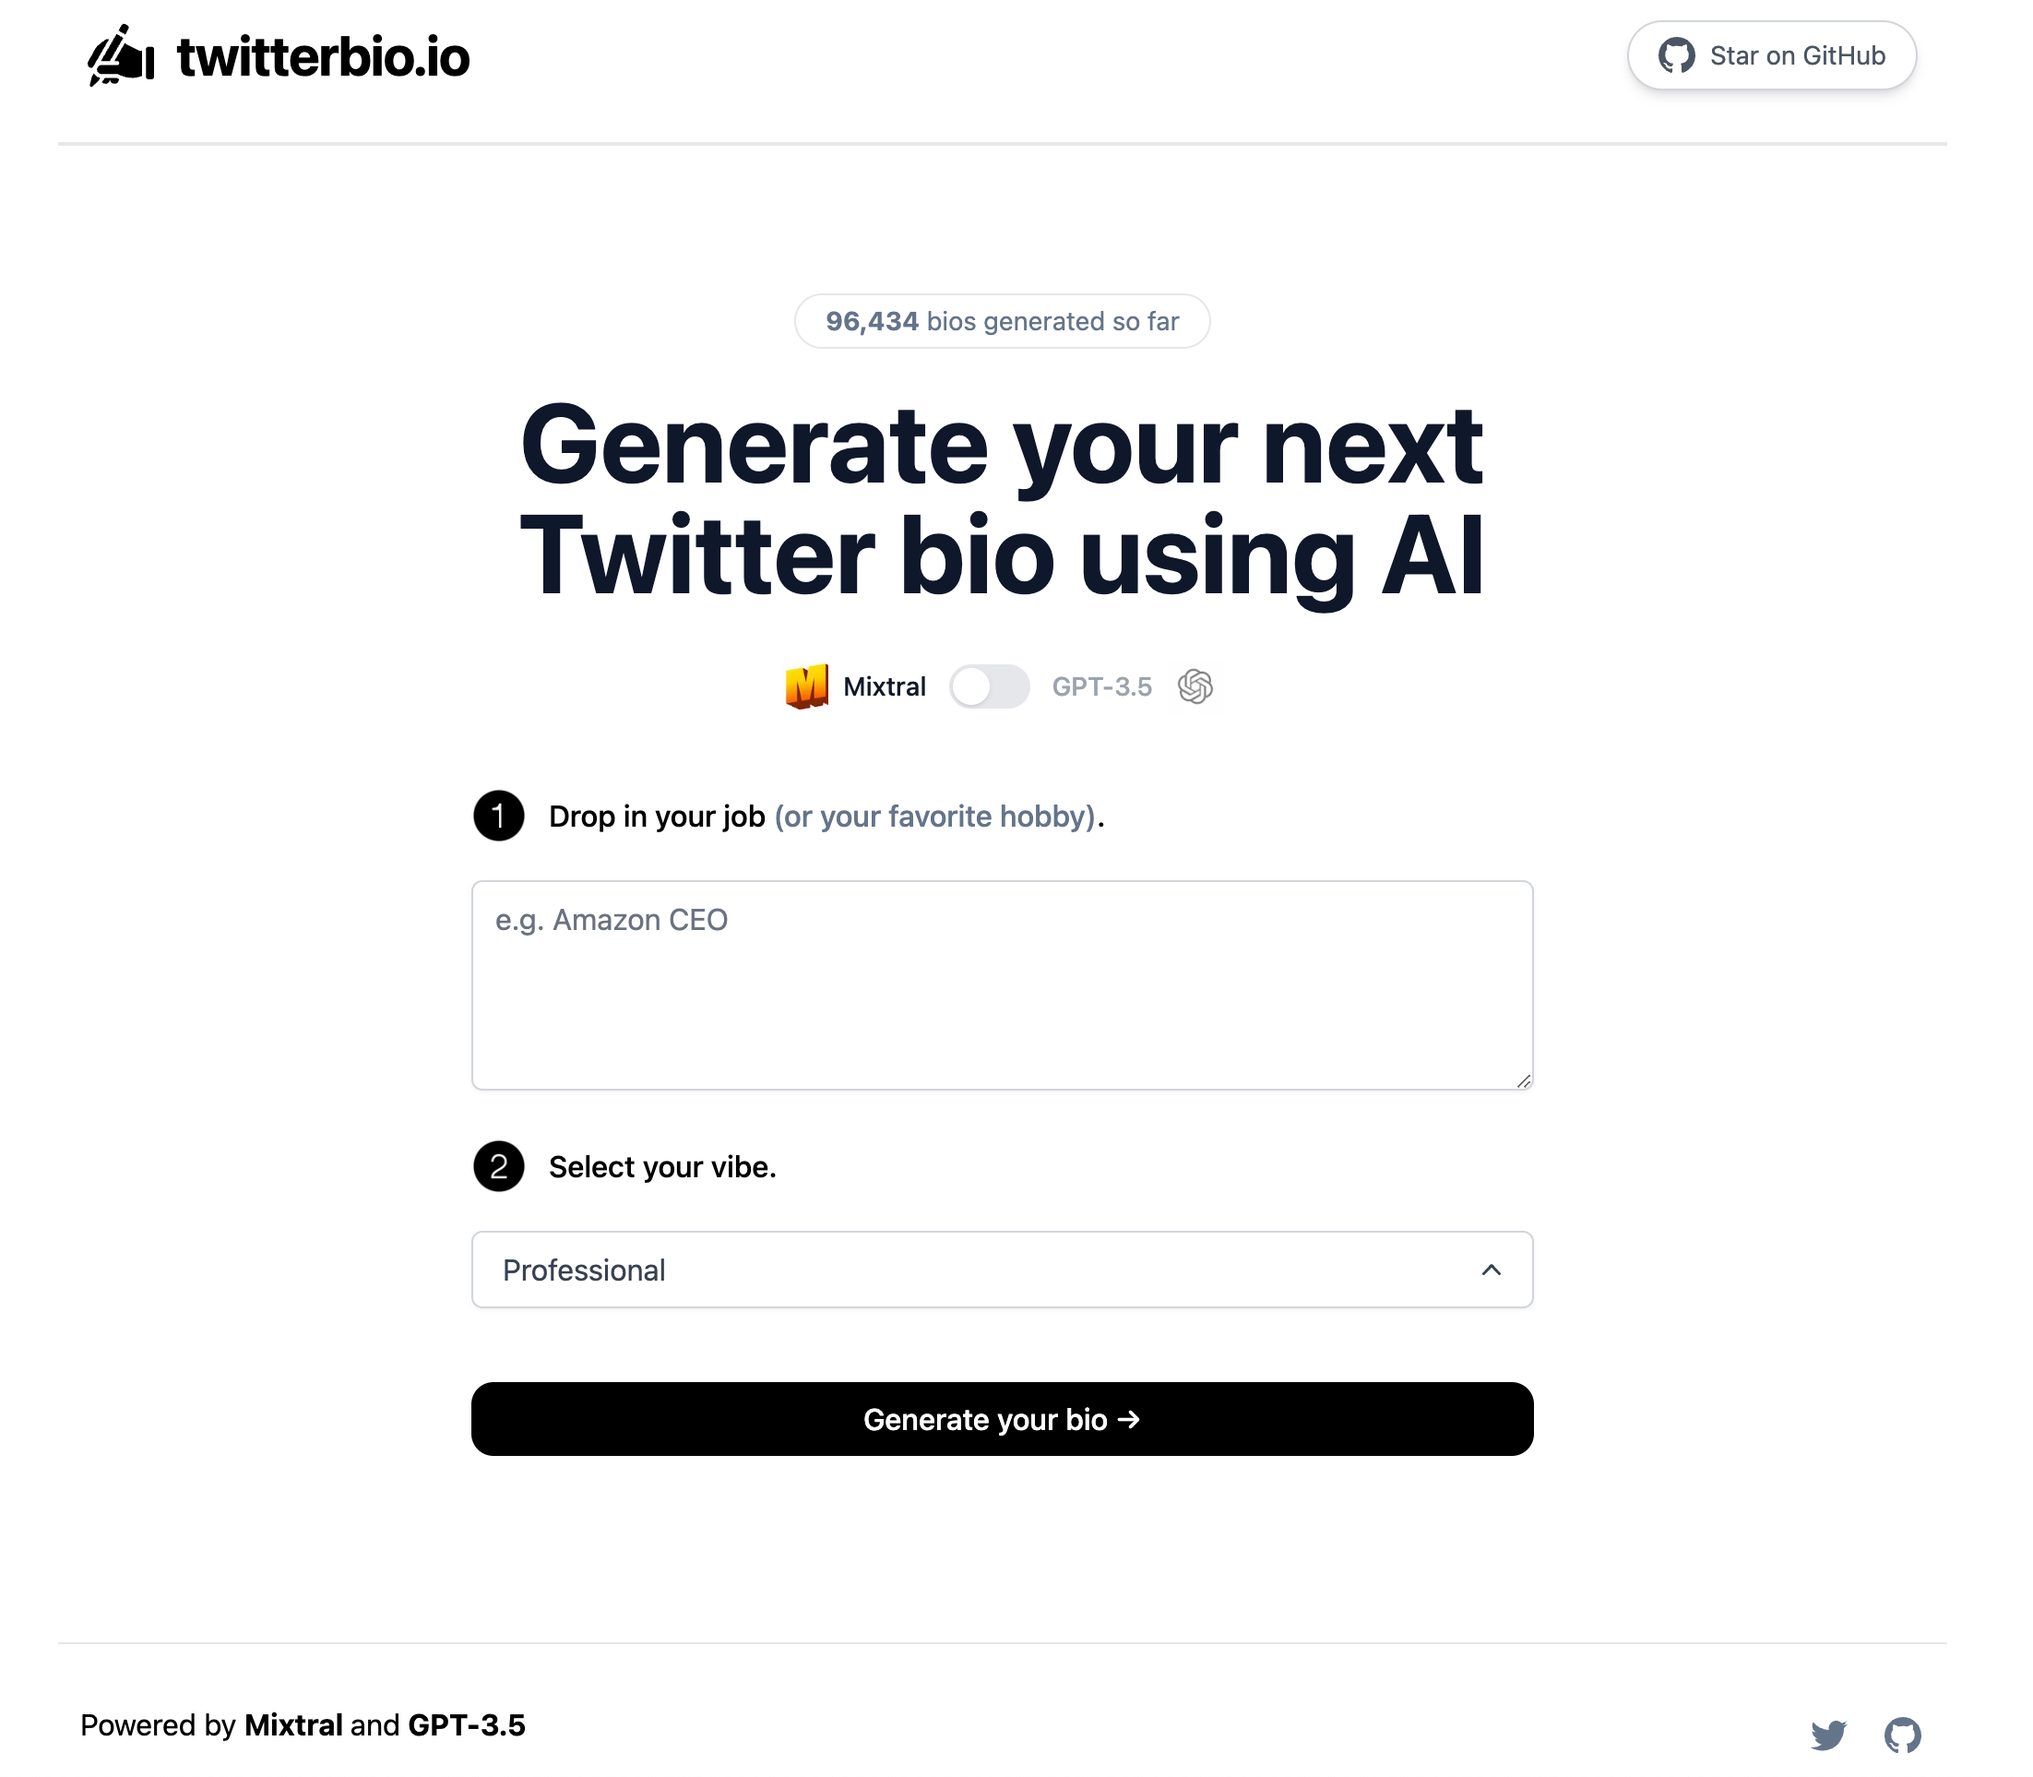
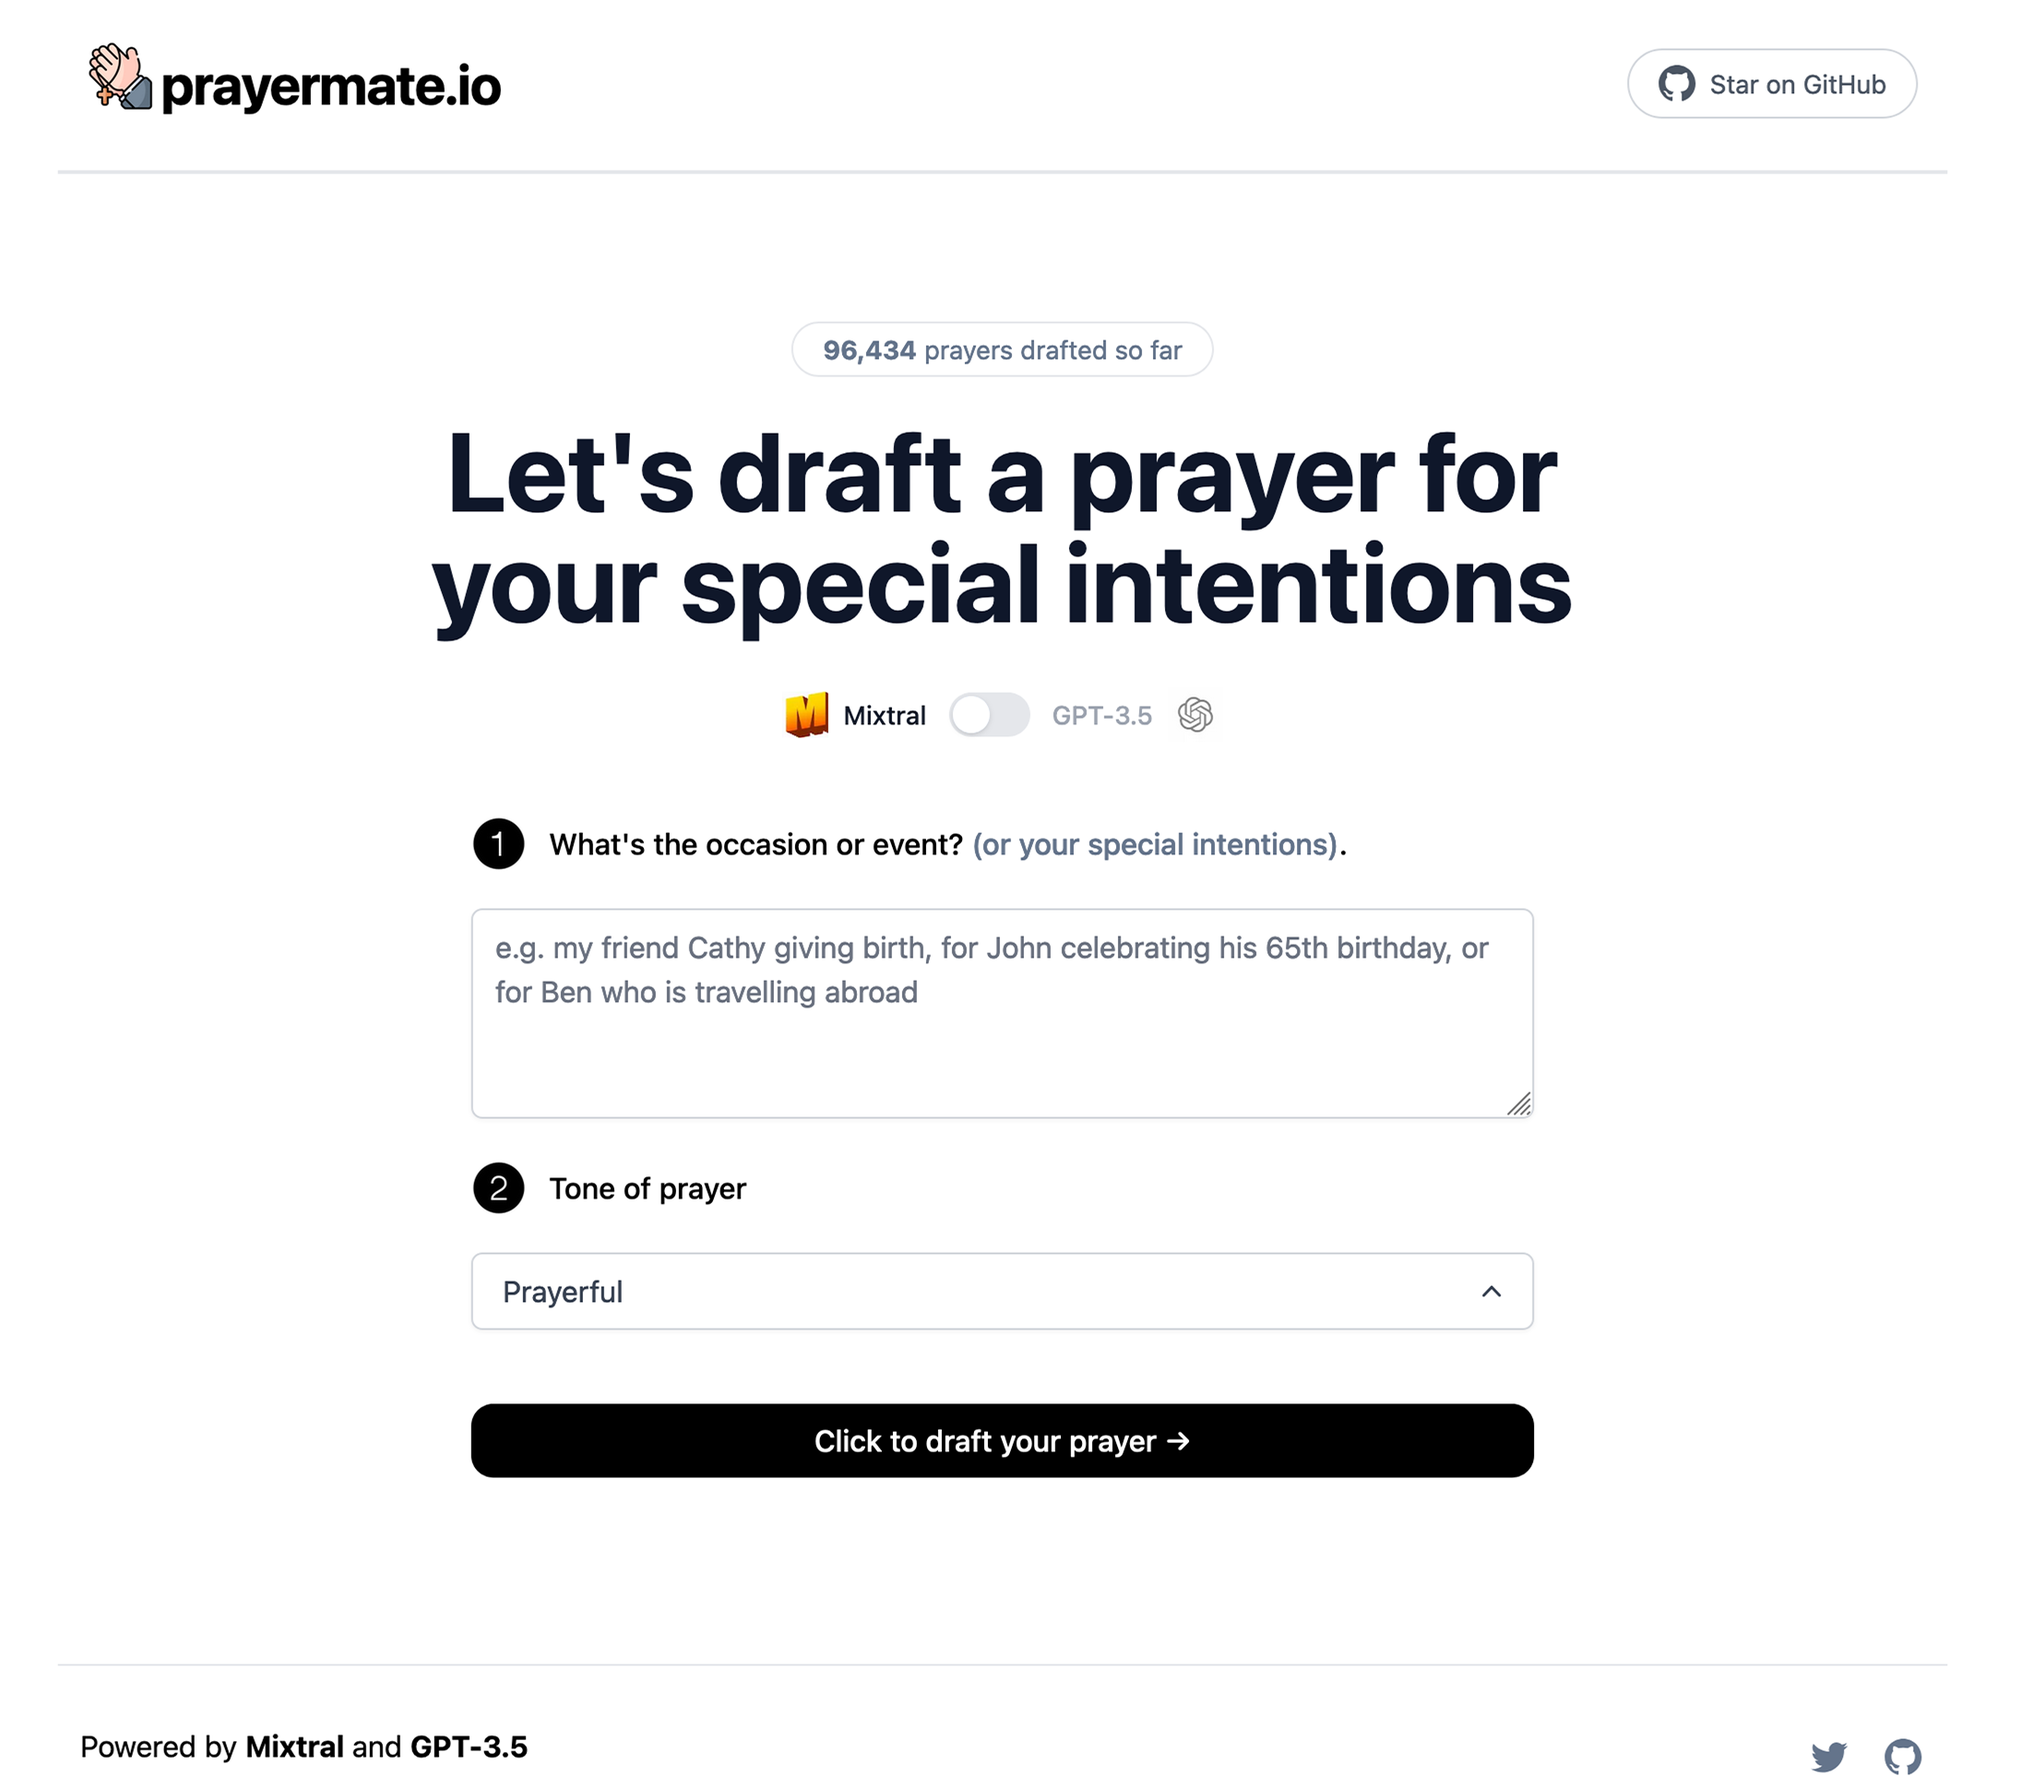
First commit
Changed twitterbio.io to this one

diff --git a/pages/index.tsx b/pages/index.tsx
@@ -17,7 +17,7 @@ import Toggle from '../components/Toggle';
 const Home: NextPage = () => {
   const [loading, setLoading] = useState(false);
   const [bio, setBio] = useState('');
-  const [vibe, setVibe] = useState<VibeType>('Professional');
+  const [vibe, setVibe] = useState<VibeType>('Prayerful');
   const [generatedBios, setGeneratedBios] = useState<String>('');
   const [isGPT, setIsGPT] = useState(false);
 
@@ -29,11 +29,11 @@ const Home: NextPage = () => {
     }
   };
 
-  const prompt = `Generate 3 ${
-    vibe === 'Casual' ? 'relaxed' : vibe === 'Funny' ? 'silly' : 'Professional'
-  } twitter biographies with no hashtags and clearly labeled "1.", "2.", and "3.". Only return these 3 twitter bios, nothing else. ${
-    vibe === 'Funny' ? 'Make the biographies humerous' : ''
-  }Make sure each generated biography is less than 300 characters, has short sentences that are found in Twitter bios, and feel free to use this context as well: ${bio}${
+  const prompt = `Generate a ${
+    vibe === 'Sombre' ? 'sorrowful' : vibe === 'Celebratory' ? 'joyful' : 'Prayerful'
+  } Catholic prayer ${
+    vibe === 'Celebratory' ? 'Make that prayer that is rejoicing in the occasion' : ''
+  }Make sure the generated prayer is less than 1200 characters, , and feel free to use this context as well: ${bio}${
     bio.slice(-1) === '.' ? '' : '.'
   }`;
 
@@ -108,17 +108,17 @@ const Home: NextPage = () => {
   return (
     <div className="flex max-w-5xl mx-auto flex-col items-center justify-center py-2 min-h-screen">
       <Head>
-        <title>Twitter Bio Generator</title>
+        <title>Catholic Prayer AI Assistant</title>
         <link rel="icon" href="/favicon.ico" />
       </Head>
 
       <Header />
       <main className="flex flex-1 w-full flex-col items-center justify-center text-center px-4 mt-12 sm:mt-20">
         <p className="border rounded-2xl py-1 px-4 text-slate-500 text-sm mb-5 hover:scale-105 transition duration-300 ease-in-out">
-          <b>96,434</b> bios generated so far
+          <b>96,434</b> prayers drafted so far
         </p>
         <h1 className="sm:text-6xl text-4xl max-w-[708px] font-bold text-slate-900">
-          Generate your next Twitter bio using AI
+          Let's draft a prayer for your special intentions
         </h1>
         <div className="mt-7">
           <Toggle isGPT={isGPT} setIsGPT={setIsGPT} />
@@ -134,8 +134,8 @@ const Home: NextPage = () => {
               className="mb-5 sm:mb-0"
             />
             <p className="text-left font-medium">
-              Drop in your job{' '}
-              <span className="text-slate-500">(or your favorite hobby)</span>.
+              What's the occasion or event?{' '}
+              <span className="text-slate-500">(or your special intentions)</span>.
             </p>
           </div>
           <textarea
@@ -143,11 +143,11 @@ const Home: NextPage = () => {
             onChange={(e) => setBio(e.target.value)}
             rows={4}
             className="w-full rounded-md border-gray-300 shadow-sm focus:border-black focus:ring-black my-5"
-            placeholder={'e.g. Amazon CEO'}
+            placeholder={'e.g. my friend Cathy giving birth, for John celebrating his 65th birthday, or for Ben who is travelling abroad'}
           />
           <div className="flex mb-5 items-center space-x-3">
             <Image src="/2-black.png" width={30} height={30} alt="1 icon" />
-            <p className="text-left font-medium">Select your vibe.</p>
+            <p className="text-left font-medium">Tone of prayer</p>
           </div>
           <div className="block">
             <DropDown vibe={vibe} setVibe={(newVibe) => setVibe(newVibe)} />
@@ -158,7 +158,7 @@ const Home: NextPage = () => {
               className="bg-black rounded-xl text-white font-medium px-4 py-2 sm:mt-10 mt-8 hover:bg-black/80 w-full"
               onClick={(e) => generateBio(e)}
             >
-              Generate your bio &rarr;
+              Click to draft your prayer &rarr;
             </button>
           )}
           {loading && (
@@ -184,17 +184,18 @@ const Home: NextPage = () => {
                   className="sm:text-4xl text-3xl font-bold text-slate-900 mx-auto"
                   ref={bioRef}
                 >
-                  Your generated bios
+                  Here is your drafted prayer:
                 </h2>
               </div>
               <div className="space-y-8 flex flex-col items-center justify-center max-w-xl mx-auto">
+                
                 {generatedBios
                   .substring(generatedBios.indexOf('1') + 3)
                   .split(/2\.|3\./)
                   .map((generatedBio) => {
                     return (
                       <div
-                        className="bg-white rounded-xl shadow-md p-4 hover:bg-gray-100 transition cursor-copy border"
+                        className="bg-white rounded-xl shadow-md p-8 hover:bg-gray-100 transition cursor-copy border"
                         onClick={() => {
                           navigator.clipboard.writeText(generatedBio);
                           toast('Bio copied to clipboard', {

diff --git a/components/Header.tsx b/components/Header.tsx
@@ -3,20 +3,20 @@ import Github from './GitHub';
 
 export default function Header() {
   return (
-    <header className="flex justify-between items-center w-full mt-5 border-b-2 pb-7 sm:px-4 px-2">
-      <Link href="/" className="flex space-x-3">
+    <header className="flex justify-between items-center w-full mt-5 border-b-2 pb-7 sm:px-4 px-4">
+      <Link href="/" className="flex space-x-1">
         <img
           alt="header text"
-          src="/write.svg"
-          className="sm:w-9 sm:h-9 w-8 h-8"
+          src="/prayer.png"
+          className="sm:w-9 sm:h-9 w-8 h-8 scale-x-[-1] -translate-y-1"
         />
         <h1 className="sm:text-3xl text-2xl font-bold ml-2 tracking-tight">
-          twitterbio.io
+          prayermate.io
         </h1>
       </Link>
       <a
-        className="flex max-w-fit items-center justify-center space-x-2 rounded-full border border-gray-300 bg-white px-4 py-2 text-sm text-gray-600 shadow-md transition-colors hover:bg-gray-100"
-        href="https://github.com/Nutlope/twitterbio"
+        className="flex max-w-fit items-center justify-center space-x-2 rounded-full border border-gray-300 bg-white px-4 py-2 text-sm text-gray-600 hover:first-letter:§shadow-sm transition-colors hover:bg-gray-100"
+        href="https://github.com/ryanmacalandag/prayer-mate"
         target="_blank"
         rel="noopener noreferrer"
       >

diff --git a/pages/_document.tsx b/pages/_document.tsx
@@ -8,19 +8,19 @@ class MyDocument extends Document {
           <link rel="icon" href="/favicon.ico" />
           <meta
             name="description"
-            content="Generate your next Twitter bio in seconds."
+            content="I "
           />
           <meta property="og:site_name" content="twitterbio.io" />
           <meta
             property="og:description"
-            content="Generate your next Twitter bio in seconds."
+            content="Generate a Catholic prayer in seconds."
           />
           <meta property="og:title" content="Twitter Bio Generator" />
           <meta name="twitter:card" content="summary_large_image" />
           <meta name="twitter:title" content="Twitter Bio Generator" />
           <meta
             name="twitter:description"
-            content="Generate your next Twitter bio in seconds."
+            content="Generate a Catholic prayer in seconds."
           />
           <meta
             property="og:image"

diff --git a/components/DropDown.tsx b/components/DropDown.tsx
@@ -10,14 +10,14 @@ function classNames(...classes: string[]) {
   return classes.filter(Boolean).join(' ');
 }
 
-export type VibeType = 'Professional' | 'Casual' | 'Funny';
+export type VibeType = 'Prayerful' | 'Sombre' | 'Celebratory';
 
 interface DropDownProps {
   vibe: VibeType;
   setVibe: (vibe: VibeType) => void;
 }
 
-let vibes: VibeType[] = ['Professional', 'Casual', 'Funny'];
+let vibes: VibeType[] = ['Prayerful', 'Sombre', 'Celebratory'];
 
 export default function DropDown({ vibe, setVibe }: DropDownProps) {
   return (

diff --git a/README.md b/README.md
@@ -1,8 +1,12 @@
-# [twitterbio.io](https://www.twitterbio.io/)
+# Catholic Prayer AI Assistant
 
-This project generates Twitter (X) bios for you using AI.
+This AI Assistant helps you draft a Catholic prayer for your special intentions.
 
-[![Twitter Bio Generator](./public/screenshot.png)](https://www.twitterbio.io)
+[![Twitter Bio Generator](./public/screenshot.png)](https://github.com/ryanmacalandag/prayer-mate)
+
+## Cloned from twitterbio.io
+
+[twitterbio.io](https://www.twitterbio.io/)
 
 ## How it works
 
@@ -15,9 +19,3 @@ If you'd like to see how I built the GPT-3.5 version of this, check out the [vid
 1. Create an account at [OpenAI](https://beta.openai.com/account/api-keys) and add your API key under `OPENAI_API_KEY` in your `.env`
 2. Create an account at [Together.ai](https://www.together.ai/) and add your API key under `TOGETHER_API_KEY`
 3. Run the application with `npm run dev` and it will be available at `http://localhost:3000`.
-
-## One-Click Deploy
-
-Deploy the example using [Vercel](https://vercel.com?utm_source=github&utm_medium=readme&utm_campaign=vercel-examples):
-
-[![Deploy with Vercel](https://vercel.com/button)](https://vercel.com/new/clone?repository-url=https://github.com/Nutlope/twitterbio&env=OPENAI_API_KEY,TOGETHER_API_KEY&project-name=twitter-bio-generator&repo-name=twitterbio)
